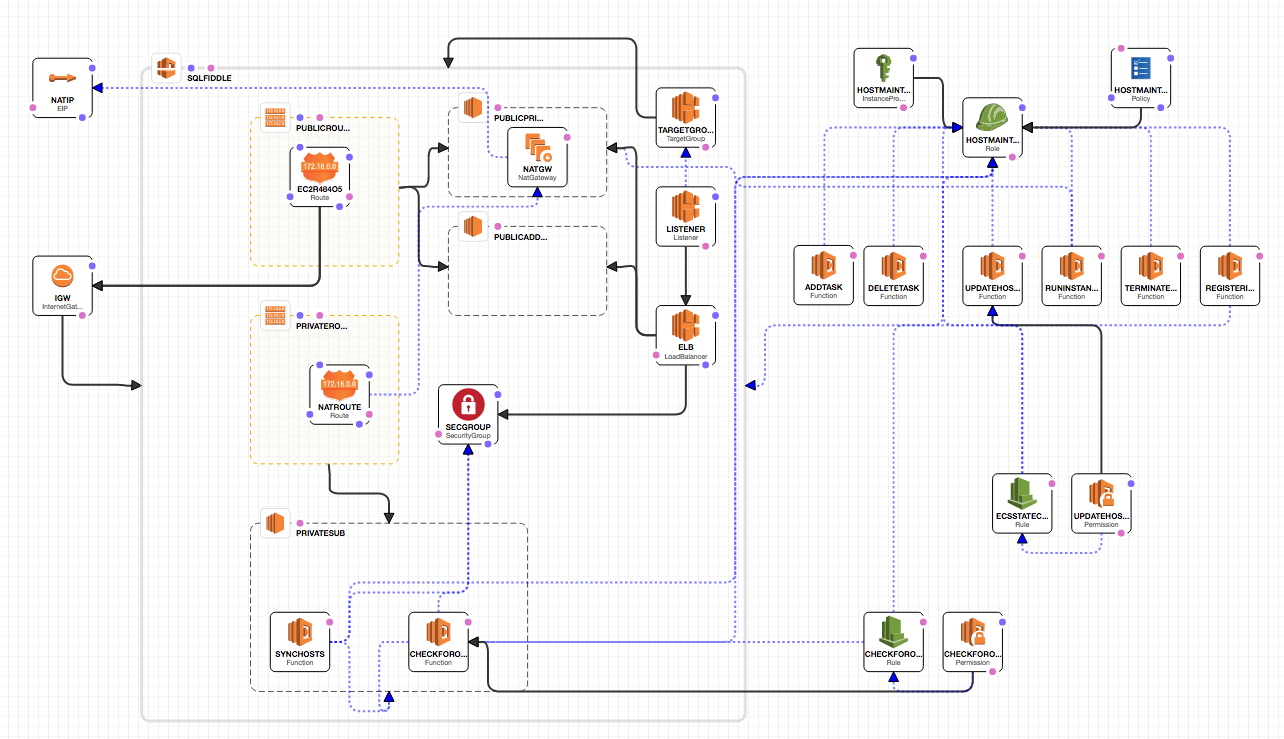
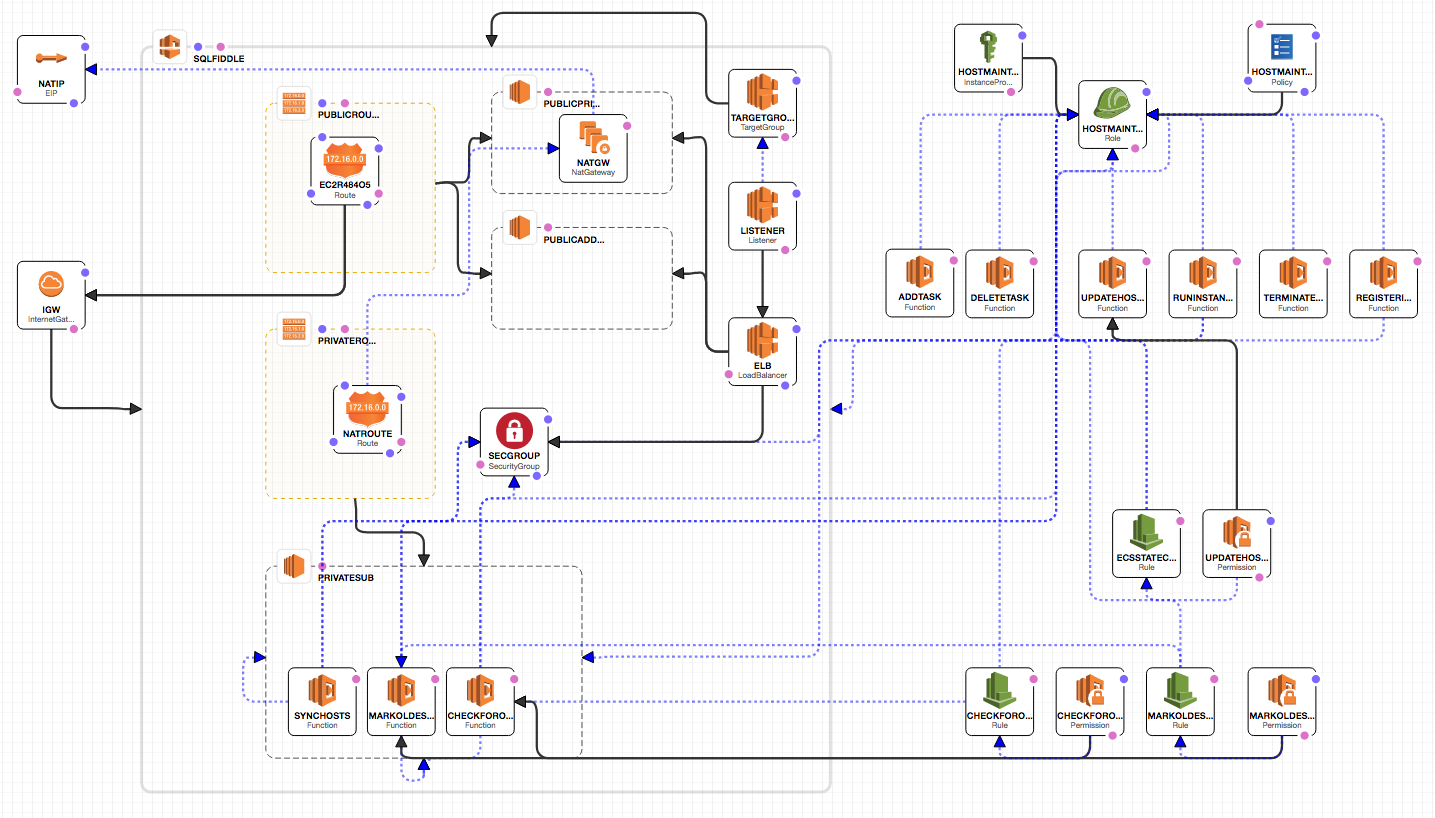
New lambda function to harvest oldest host every 5 hours

diff --git a/appServer/src/main/lambda/hostMaintenance.js b/appServer/src/main/lambda/hostMaintenance.js
@@ -189,10 +189,62 @@ var deprovisionHostsPendingRemoval = (client) =>
         ))
     );
 
+var beginRemovalForEach = (client, queryResults) =>
+    Q.all(
+        queryResults.rows.map((host) =>
+            client.query({
+                text: `
+                    UPDATE
+                        hosts
+                    SET
+                        pending_removal = TRUE
+                    WHERE
+                        id = $1
+                `,
+                values: [
+                    host.host_id
+                ]
+            }).then(() =>
+                scaleUpHost(host.full_name)
+            )
+        )
+    );
+
+exports.markOldestForRemoval = (event, context, callback) => {
+    var pg = require('pg'),
+        // variables provided from lambda environment
+        client = new pg.Client(postgresConnectionConfig);
+
+    client.connect(function (err) {
+        client.query({ text: `
+                SELECT
+                    min(h.id) as host_id,
+                    (
+                        SELECT
+                            d.full_name
+                        FROM
+                            db_types d
+                                INNER JOIN hosts h2 ON
+                                    d.id = h2.db_type_id
+                        WHERE
+                            h2.id = min(h.id)
+                    ) as full_name
+                FROM
+                    hosts h
+            `
+        })
+        .then((queryResults) =>
+            beginRemovalForEach(client, queryResults).then((scaleResults) => {
+                client.end();
+                return callback(null, scaleResults);
+            }, (error) => callback(error))
+        )
+    });
+}
+
 /**
   Expected to be called on via a scheduled CloudWatch task
 */
-
 exports.checkForOverusedHosts = (event, context, callback) => {
     var pg = require('pg'),
         // variables provided from lambda environment
@@ -221,29 +273,10 @@ exports.checkForOverusedHosts = (event, context, callback) => {
             values: [
                 process.env.MAX_SCHEMAS_PER_HOST
             ]
-        }).then((result) =>
-            Q.all(
-                result.rows.map((host) =>
-                    client.query({
-                        text: `
-                            UPDATE
-                                hosts
-                            SET
-                                pending_removal = TRUE
-                            WHERE
-                                id = $1
-                        `,
-                        values: [
-                            host.host_id
-                        ]
-                    }).then(() =>
-                        scaleUpHost(host.full_name)
-                    )
-                )
-            )
-            .then((results) => {
+        }).then((queryResults) =>
+            beginRemovalForEach(client, queryResults).then((scaleResults) => {
                 client.end();
-                return callback(null, results);
+                return callback(null, scaleResults);
             }, (error) => callback(error))
         );
     });
